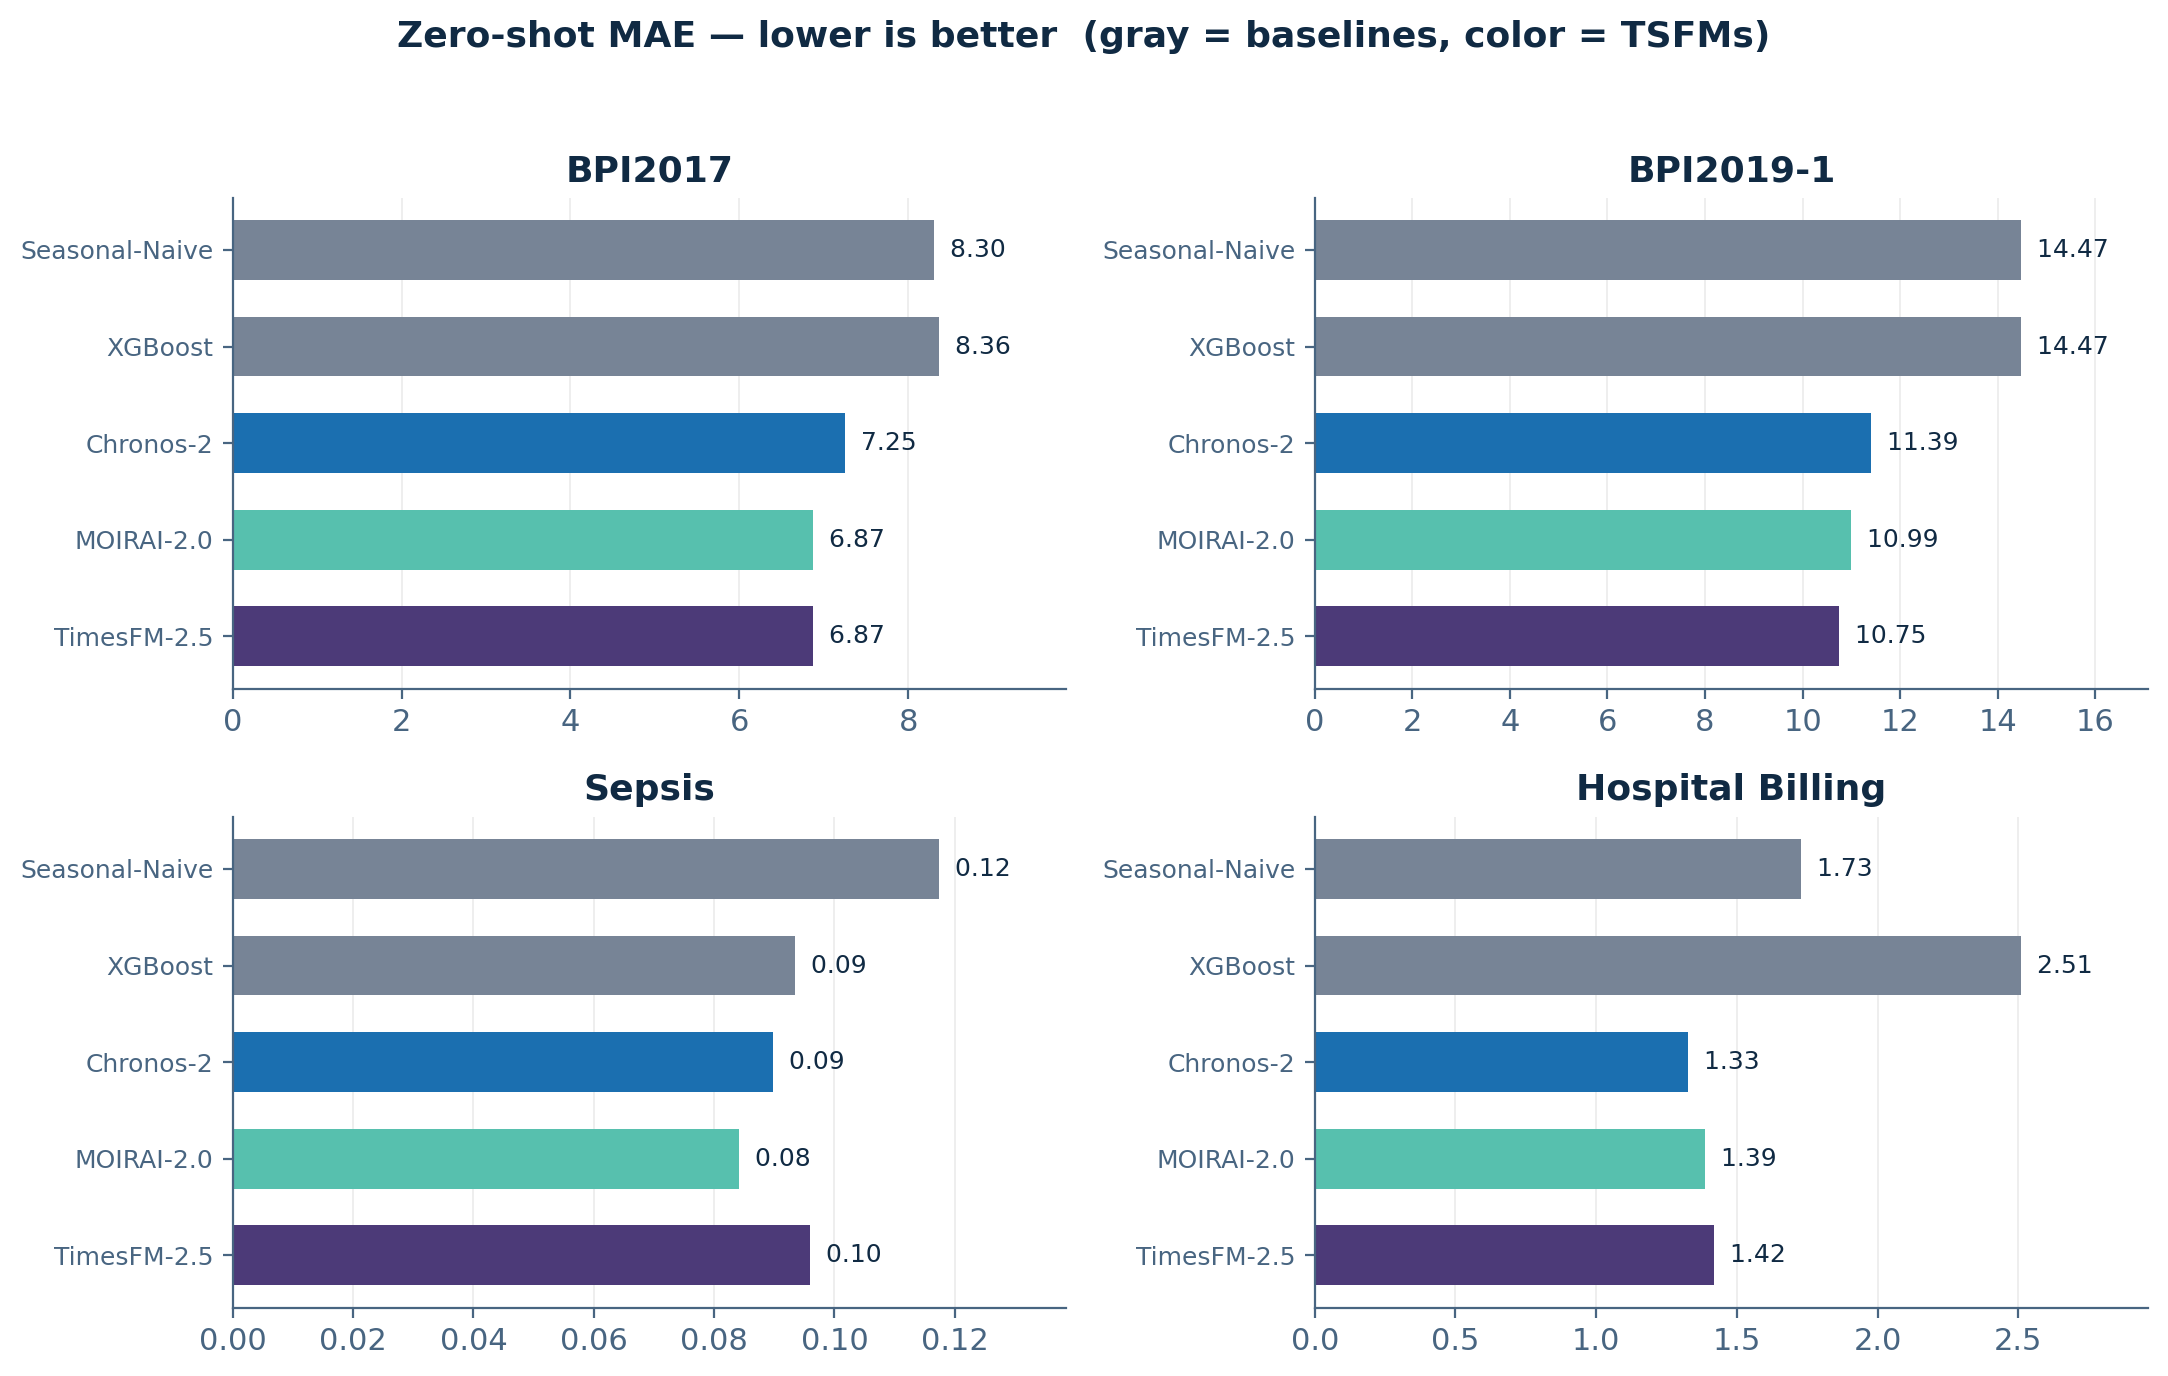
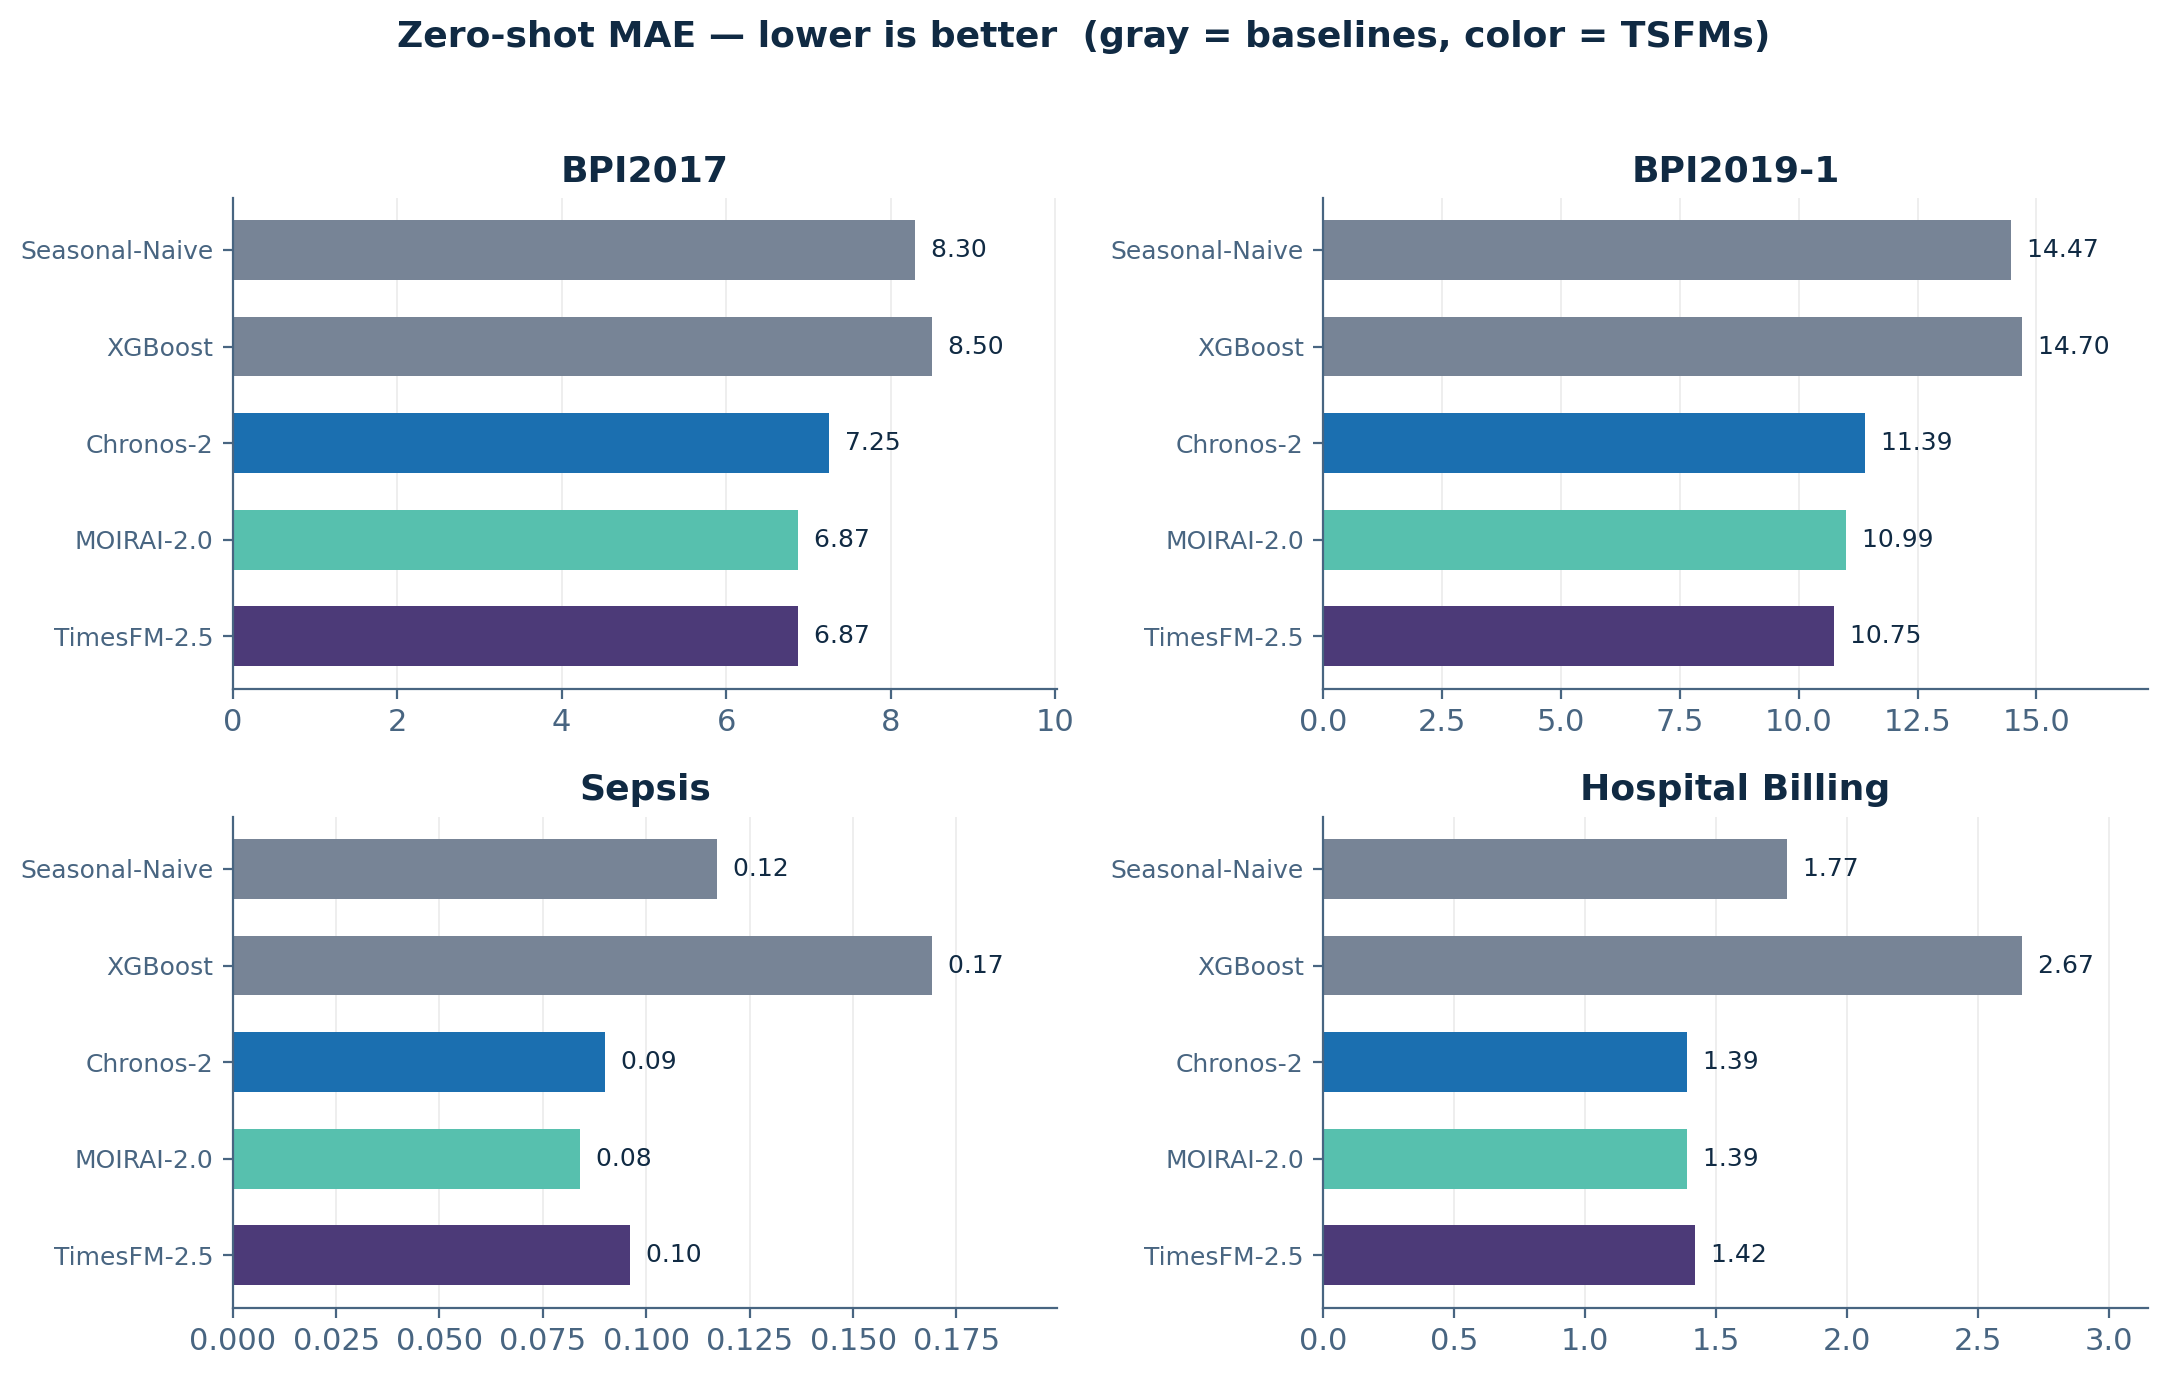
feat(slides): prove figure+math+reveal archetypes; fix MAE figure to paper Table 4
Close the visual-verification loose ends so the Assertion-Evidence template is proven
on every archetype before the content-revision phase.

- Migrate the ER slide (two-col-evidence: figure + KaTeX definition/worked numbers +
  two sequential Callout reveals) and the MAE-bars slide (base assertion-evidence: big
  figure + caption + revealed aggregate callout). Together they prove both layouts,
  KaTeX styling, figure fit, and the v-click callout reveal.
- KaTeX styling: equations in --ink at body scale, display equations left-aligned
  (style.css).
- Document the guided-attention convention (one — occasionally two, sequential —
  Callout v-click reveals; ink text on accent) in SLIDES.md.
- Verify the export path: add playwright-chromium; pnpm export produces a clean PDF
  and PNG set. Ignore export output in .gitignore.
- Fix results-mae-bars.png to plot paper Table 4 values. The baselines read from
  results/ are a re-run that differs from camera-ready (esp. XGBoost Sepsis .169 vs
  .094), which understated the baselines; fig_mae_bars now plots the paper and
  cross-checks results, printing the expected deltas. RMSE/drift stay results-sourced
  (the paper has no RMSE table) and are flagged. See ADR-0006.

Per-slide verification that every number and bar matches the paper is the job of the
content-revision phase that follows.

diff --git a/slides/template/style.css b/slides/template/style.css
@@ -114,6 +114,12 @@
 /* caption (figure sublabels) */
 .caption { font-size: 14px; color: var(--neutral-soft); }
 
+/* KaTeX — equations sit in --ink at the body scale (inline math inherits 23px).
+   Display equations left-align with the evidence column (KaTeX centres by default).
+   Every equation pairs with a worked example (ER bits/trace is the reference exemplar). */
+.ae-body .katex { color: var(--ink); }
+.ae-body .katex-display { text-align: left; margin: 6px 0 14px; }
+
 /* ---- chrome: page number (content slides only) ---- */
 .pageno {
   position: absolute;

diff --git a/slides/scripts/make_figures.py b/slides/scripts/make_figures.py
@@ -5,11 +5,17 @@ Reads from the authoritative sources pinned in figure_manifest.py and writes PNG
 slides/template/public/figures/. Idempotent: re-running overwrites in place.
 
 Sourcing (see manifest header for provenance):
-  * MAE bars, FT slope, RMSE table  -> results/ comprehensive_evaluation CSVs (machine precise)
-  * Drift pair                      -> results/ .npy arrays (only source of per-window series)
+  * MAE bars                        -> paper Table 4 (TABLE4_MAE), cross-checked vs results/ CSVs.
+        Baselines on results/ are a re-run that differs from camera-ready (esp. XGBoost Sepsis);
+        the slide must be paper-faithful (SLIDES.md), so we plot the paper and print result deltas.
+  * FT slope, RMSE table            -> results/ comprehensive_evaluation CSVs (machine precise).
+        RMSE is results-only — the paper reports MAE (Table 4); RMSE is a backup/verbal claim, so
+        its baselines carry the same re-run caveat (flagged in the slide caption).
+  * Drift pair                      -> results/ .npy arrays (only source of per-window series;
+        XGBoost line is the re-run — matches paper Fig 1 qualitatively, no paper machine data).
   * ER bars, DF-complexity radar    -> transcribed paper Tables 7 / 3 (no clean machine source)
 
-Each scalar chart cross-checks TSFM values against the paper tables and prints any delta.
+MAE/FT/RMSE cross-check TSFM values against the paper tables and print any delta.
 
     python slides/scripts/make_figures.py [--only mae_bars,drift,...]
 """
@@ -117,12 +123,14 @@ def fig_mae_bars():
     for ax, ds in zip(axes, M.DATASETS):
         vals = []
         for label, kind, subdir, _key in M.HEADLINE:
-            v = _read_mae(_root_for(kind), subdir, ds)
+            # PLOT the paper Table 4 value (paper-faithful per SLIDES.md), then cross-check the
+            # results CSV and print any delta (baseline deltas are expected — see manifest note).
+            v = M.TABLE4_MAE[label][ds]
             vals.append(v)
-            # sanity-gate TSFMs against paper Table 4 (wide tol: catch wiring errors, not rounding)
-            chk = M.TABLE4_MAE_CHECK.get(label, {}).get(ds)
-            if chk is not None and abs(v - chk) > max(0.08 * chk, 0.05):
-                DELTAS.append(f"MAE {label}/{ds}: results {v:.3f} vs paper~{chk} (check wiring)")
+            res = _read_mae(_root_for(kind), subdir, ds)
+            tol = 0.08 * v if label not in M.BASELINE_LABELS else 0.0  # tight for TSFMs
+            if abs(res - v) > max(tol, 0.05):
+                DELTAS.append(f"MAE {label}/{ds}: plotted paper {v:.3f} vs results {res:.3f}")
         colors = [
             M.BASELINE_GRAY if lab in M.BASELINE_LABELS else M.FAMILY_COLORS[M.family_of(lab)]
             for lab in labels

diff --git a/slides/scripts/figure_manifest.py b/slides/scripts/figure_manifest.py
@@ -176,9 +176,16 @@ TABLE3_COMPLEXITY = {
     "Hospital_Billing": [0.603, 0.260, 0.137, 0.171, 0.483, 0.620, 0.457],
 }
 
-# --- paper Table 4 MAE -- transcribed, used ONLY to verify the results CSVs --
-# (TSFM rows must match results within rounding; baseline rows are expected to differ)
-TABLE4_MAE_CHECK = {
+# --- paper Table 4 MAE (camera-ready) -- the PLOT SOURCE for the headline MAE bars.
+# Slide numbers must be paper-faithful (SLIDES.md hard rule). The results/ re-run baselines
+# differ materially from the camera-ready table (esp. XGBoost Sepsis .169 vs the re-run's ~.094,
+# also XGBoost on every log + Naive on Hospital), which would understate the baselines and distort
+# the "TSFMs beat both baselines on every log" claim. So we PLOT these paper values and cross-check
+# the results CSVs in make_figures (baseline deltas are expected and printed). TSFM rows match the
+# results within rounding. Best (lower) baseline is Naive Seasonal on all four logs.
+TABLE4_MAE = {
+    "Seasonal-Naive": {"BPI2017": 8.30, "BPI2019_1": 14.47, "Sepsis": 0.117, "Hospital_Billing": 1.77},
+    "XGBoost": {"BPI2017": 8.50, "BPI2019_1": 14.70, "Sepsis": 0.169, "Hospital_Billing": 2.67},
     "Chronos-2": {"BPI2017": 7.25, "BPI2019_1": 11.39, "Sepsis": 0.090, "Hospital_Billing": 1.39},
     "MOIRAI-2.0": {"BPI2017": 6.87, "BPI2019_1": 10.99, "Sepsis": 0.084, "Hospital_Billing": 1.39},
     "TimesFM-2.5": {"BPI2017": 6.87, "BPI2019_1": 10.75, "Sepsis": 0.096, "Hospital_Billing": 1.42},

diff --git a/slides/template/slides.md b/slides/template/slides.md
@@ -298,14 +298,18 @@ Here's what happens when you point them at DF time series."
 -->
 
 ---
+layout: assertion-evidence
+locator: Results
+assertion: Zero-shot TSFMs beat both baselines on every log
+---
 
-# Results — MAE across 4 event logs
+<img src="/figures/results-mae-bars.png" class="block mx-auto w-full max-h-[380px] object-contain rounded-lg" alt="Zero-shot MAE across 4 event logs — TSFMs vs Seasonal-Naive and XGBoost baselines" />
 
-<img src="/figures/results-mae-bars.png" class="block mx-auto rounded-lg w-full max-h-[420px] object-contain" alt="Zero-shot MAE across 4 event logs — TSFMs vs Seasonal-Naive and XGBoost baselines" />
-
-<div class="mt-4 text-xs opacity-70 text-center">
-Two strongest baselines from our prior benchmark (Yu 2025) — full ranking on backup.
+<div class="text-center mt-3" v-click>
+  <Callout>−21% mean MAE vs best baseline · 3 models × 4 logs</Callout>
 </div>
+
+<div class="caption mt-2 text-center">Two strongest baselines from our prior benchmark (Yu 2025) — full ranking on backup.</div>
 
 <!--
 Q: Does Q1 hold — do zero-shot TSFMs beat the baselines?
@@ -403,30 +407,36 @@ Don't moralize — let the visual do it.
 -->
 
 ---
+layout: two-col-evidence
+locator: Evaluation
+assertion: TSFMs reach ER parity — not better
+---
 
-# Process-aware evaluation — Entropic Relevance
+::left::
 
-<div class="grid grid-cols-2 gap-6">
-
-<div>
-<div class="text-xs opacity-70 mb-1 text-center">ER (lower = better process model) · Hospital Billing</div>
-<img src="/figures/er-hospital-billing.png" class="block mx-auto rounded-lg w-full max-h-[320px] object-contain" alt="Hospital Billing ER — reusing the historical (Training) model is far worse than any forecast" />
-<div class="mt-2 text-xs opacity-60 text-center italic">
-ER = bits-per-trace cost of encoding the log; in-bar % = traces the forecasted model fits
-</div>
-</div>
-
-<div class="pt-6 space-y-4">
-
-<div>TSFMs <strong>match</strong> baselines on ER — not better.</div>
-
-<div>Reusing the historical model (Training) is worst — every forecast beats it.</div>
-
-<div class="font-semibold" style="color: #1d4ed8">The bottleneck has moved from forecasting accuracy to process-aware representation.</div>
-
+<div class="relative">
+  <img src="/figures/er-hospital-billing.png" class="block w-full max-h-[340px] object-contain rounded-lg" alt="Hospital Billing ER — reusing the historical (Training) model is far worse than any forecast" />
+  <div class="absolute" style="left: 34%; top: 26%" v-click="1">
+    <Callout dir="left">Forecast ≫ reuse</Callout>
+  </div>
+  <div class="absolute" style="left: 52%; top: 40%" v-click="2">
+    <Callout dir="down">TSFMs ≈ baselines</Callout>
+  </div>
 </div>
 
-</div>
+<div class="caption mt-3">ER = bits-per-trace · Hospital Billing · in-bar % = traces the forecasted model fits.</div>
+
+::right::
+
+$$\mathrm{ER}(L,M) \approx \text{bits to encode one trace}$$
+
+<div class="dense">Hospital Billing — lower is better:</div>
+
+- **Truth** — 1.86 *(ideal floor)*
+- **Forecasts** — 2.1–2.5 *(baselines & TSFMs alike)*
+- **Training** — 5.83 *(reuse the old model — worst)*
+
+<div class="mt-5 font-semibold" style="color: var(--brand)">The bottleneck has moved from forecasting accuracy to process-aware representation.</div>
 
 <!--
 Q: Does the forecasting win translate to a better process model?
@@ -576,10 +586,14 @@ hideInToc: true
 
 # Backup · Full RMSE table
 
-<img src="/figures/rmse-full.png" class="block mx-auto rounded-lg w-full max-h-[440px] object-contain" alt="Full zero-shot RMSE table — all model variants × 4 logs; confirms the MAE ranking" />
+<img src="/figures/rmse-full.png" class="block mx-auto rounded-lg w-full max-h-[420px] object-contain" alt="Full zero-shot RMSE table — all model variants × 4 logs; confirms the MAE ranking" />
+
+<div class="caption mt-2 text-center">RMSE from our re-run (paper reports MAE, Table 4); baselines may differ slightly from camera-ready.</div>
 
 <!--
 Q&A defense: when asked "does RMSE tell the same story?" — yes, point at this.
+Provenance: RMSE has no paper table (paper Table 4 is MAE); built from results/ CSVs, so its
+baselines carry the re-run delta flagged in make_figures.py. Story (TSFMs win) unchanged.
 -->
 
 ---

diff --git a/docs/adr/0006-mae-figure-from-paper-table-4.md b/docs/adr/0006-mae-figure-from-paper-table-4.md
@@ -1,0 +1,31 @@
+# The headline MAE figure is plotted from paper Table 4, not the results re-run
+
+The deck's main results figure (`results-mae-bars.png`, beat 7a) plots zero-shot MAE for the two
+baselines and the three latest TSFMs across four logs. There were two sources: the **results/**
+`comprehensive_evaluation` CSVs (machine-precise, what `make_figures.py` read) or the **camera-ready
+paper Table 4** values (transcribed in `figure_manifest.py`). They agree on the TSFM rows but the
+**baselines differ materially** — most starkly XGBoost on Sepsis: paper `.169` vs the re-run's
+`~.094`, plus smaller XGBoost deltas on every log and Naive on Hospital Billing. The original
+`fig_mae_bars` read results/, so the figure understated the baselines — distorting the central claim
+("zero-shot TSFMs beat both baselines on every log") and, on the bad XGBoost-Sepsis value, even
+flipping TimesFM-2.5 from a win to an apparent loss.
+
+We now **plot the paper Table 4 values** (`TABLE4_MAE`, extended to include the baseline rows) and
+keep the results CSVs as a **cross-check** that prints the expected baseline deltas at build time.
+The decisive reason is the `SLIDES.md` hard rule: *slide result numbers must be paper-faithful*. The
+talk defends the camera-ready paper, so the camera-ready table — not a later re-run — is authoritative
+for what appears on screen. This realigns with the original intent already recorded in the throwaway
+`preview_mae_main.py` ("sources values directly from paper Table 4, camera-ready, defensible"); the
+results-sourced `fig_mae_bars` was a regression from it.
+
+## Consequences
+- `results-mae-bars.png` is regenerated; baseline bars rise to camera-ready values (XGBoost Sepsis
+  `0.17`, Hospital `2.67`, …). All three TSFM bars now sit below both baselines on every panel, and
+  the headline holds cleanly. The "−21% mean MAE vs best baseline" callout matches the bars.
+- **MAE only.** The paper reports MAE (Table 4); it has no RMSE table. So the **RMSE backup**
+  (`rmse-full.png`) and the **drift** plot stay results-sourced — there is no paper machine source for
+  them. Their baselines carry the same re-run delta, flagged in `make_figures.py`'s header and in the
+  RMSE slide caption. The drift line matches paper Fig 1 qualitatively.
+- This is a figure-data fix only. Per-slide verification that every number/bar matches the paper is
+  the explicit job of the **content-revision phase** (the slide migration that follows this template
+  work) — not claimed complete here.

diff --git a/slides/SLIDES.md b/slides/SLIDES.md
@@ -61,6 +61,17 @@ chrome element, nothing else:
 - **Callout** — `components/Callout.vue`, a clean accent box (ink text on `--accent`); the ONLY
   pointing accent element, so attention-orange stays meaningful.
 
+**Guided-attention reveal (convention):** direct the eye with `<Callout v-click>` — figure and text
+render at step 0, the Callout fades in on click. Default to ONE callout; use a second only when the
+slide carries two distinct key messages, revealed **in sequence** (`v-click="1"`, `v-click="2"`) so
+attention lands on one at a time (e.g. the ER slide: "Forecast ≫ reuse" then "TSFMs ≈ baselines").
+The callout text should restate the slide's message — an aggregate stat matching the headline (MAE
+slide: a plain pill, no pointer) or a pointer at the bar it describes. `@slidev/rough-notation`
+(`v-mark`) stays rejected as too informal. Absolute-position over a figure by wrapping it in
+`<div class="relative">` + a `<div class="absolute" style="...">`. **Text on the pill is always `--ink`,
+never white** (ink-on-accent ≈ 5.4:1, passes WCAG AA; white-on-accent ≈ 2.7:1, fails) — see the palette
+rule above.
+
 Layouts in `template/layouts/`: `assertion-evidence`, `two-col-evidence`, `cover`.
 
 ### Type scale (px @ 1280 canvas → ≈ projected @ 1920)
@@ -79,6 +90,12 @@ Line-height 1.6; page margin 52 / 92 / 56. `.dense` (18) / `.dense--xs` (16) esc
 figure panels. Figures: matplotlib matched to Inter with graceful fallback (`scripts/make_figures.py`).
 Speaker notes: per-slide Slidev `<!-- [S-xx] … -->` notes **plus** the verbatim
 `talk_design/manuscript.md` (same `[S-xx]` anchors keep them in sync).
+
+**Math (KaTeX):** equations render in `--ink` at the body scale (inline `$…$` inherits 23px); display
+`$$…$$` is left-aligned with the evidence column (`.ae-body .katex-display` in `style.css` overrides
+KaTeX's centre default). Every equation pairs with a worked example — the ER slide (`ER ≈ bits/trace`
+beside Truth 1.86 → MOIRAI-2.0 2.52 → Training 5.83) is the reference exemplar. KaTeX ships with
+Slidev; no plugin install needed.
 
 ## Hard constraints
 - Max 5 bullets per slide; max 12 words per bullet